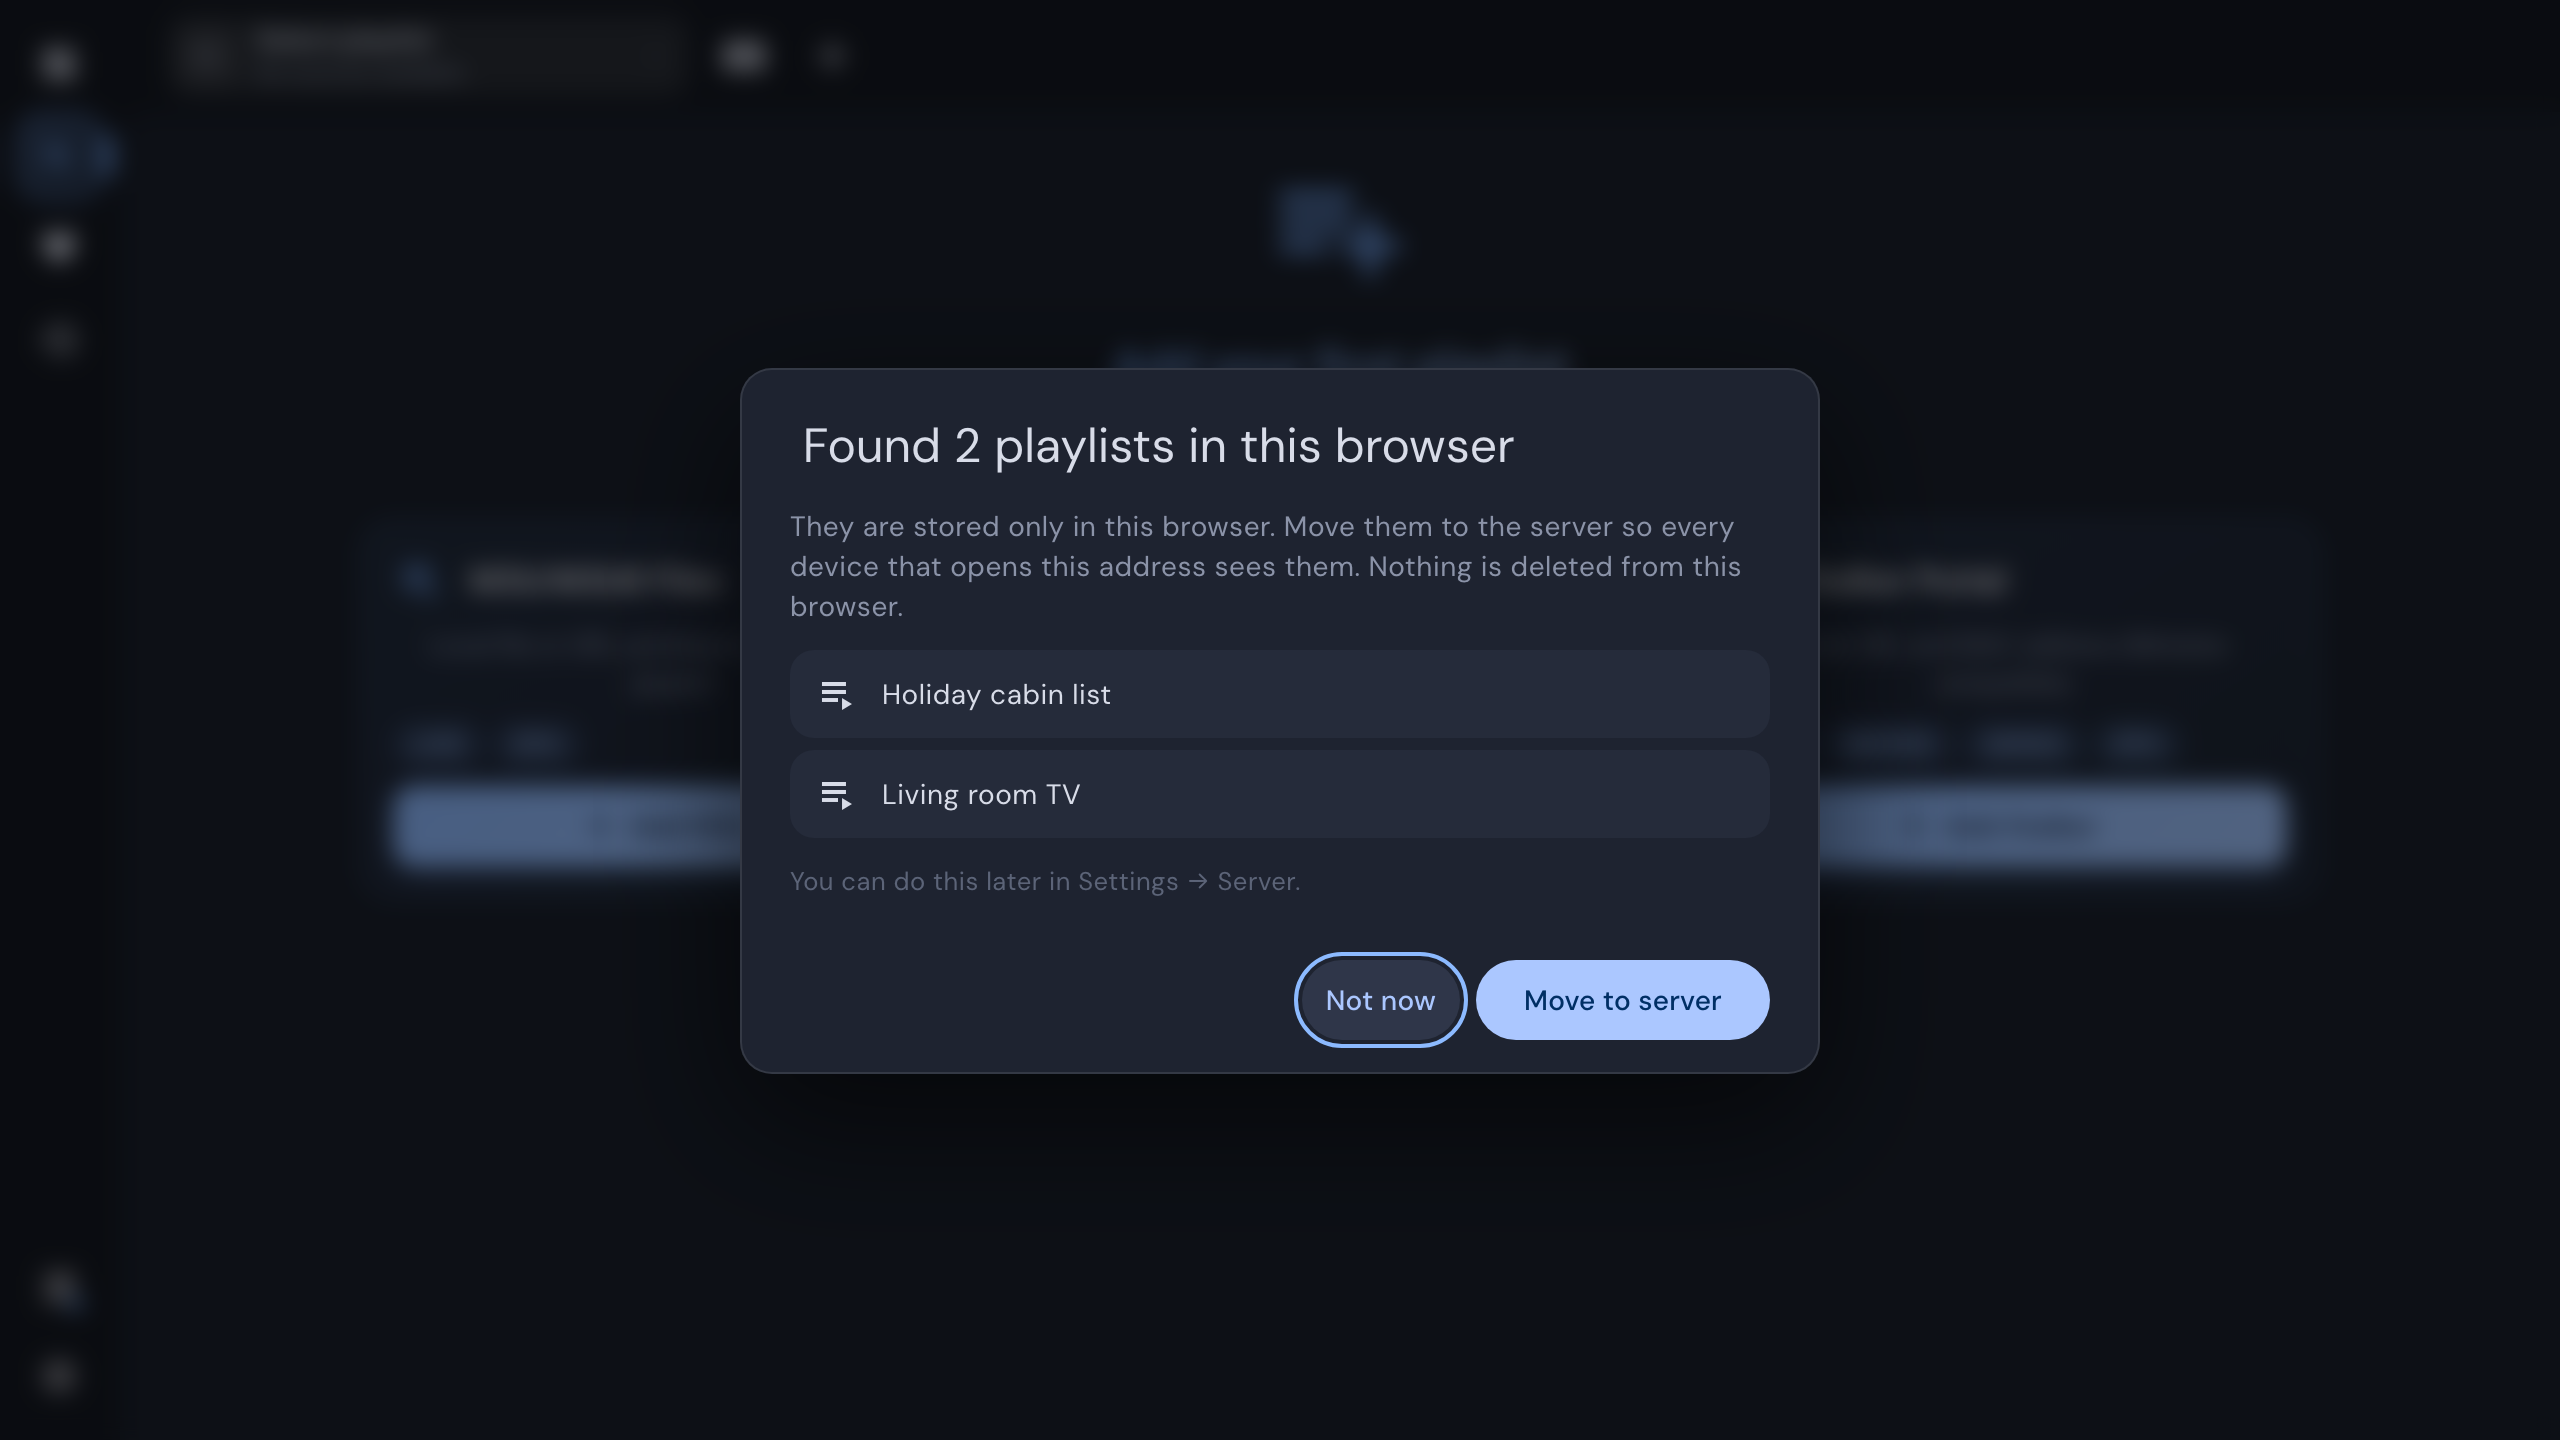
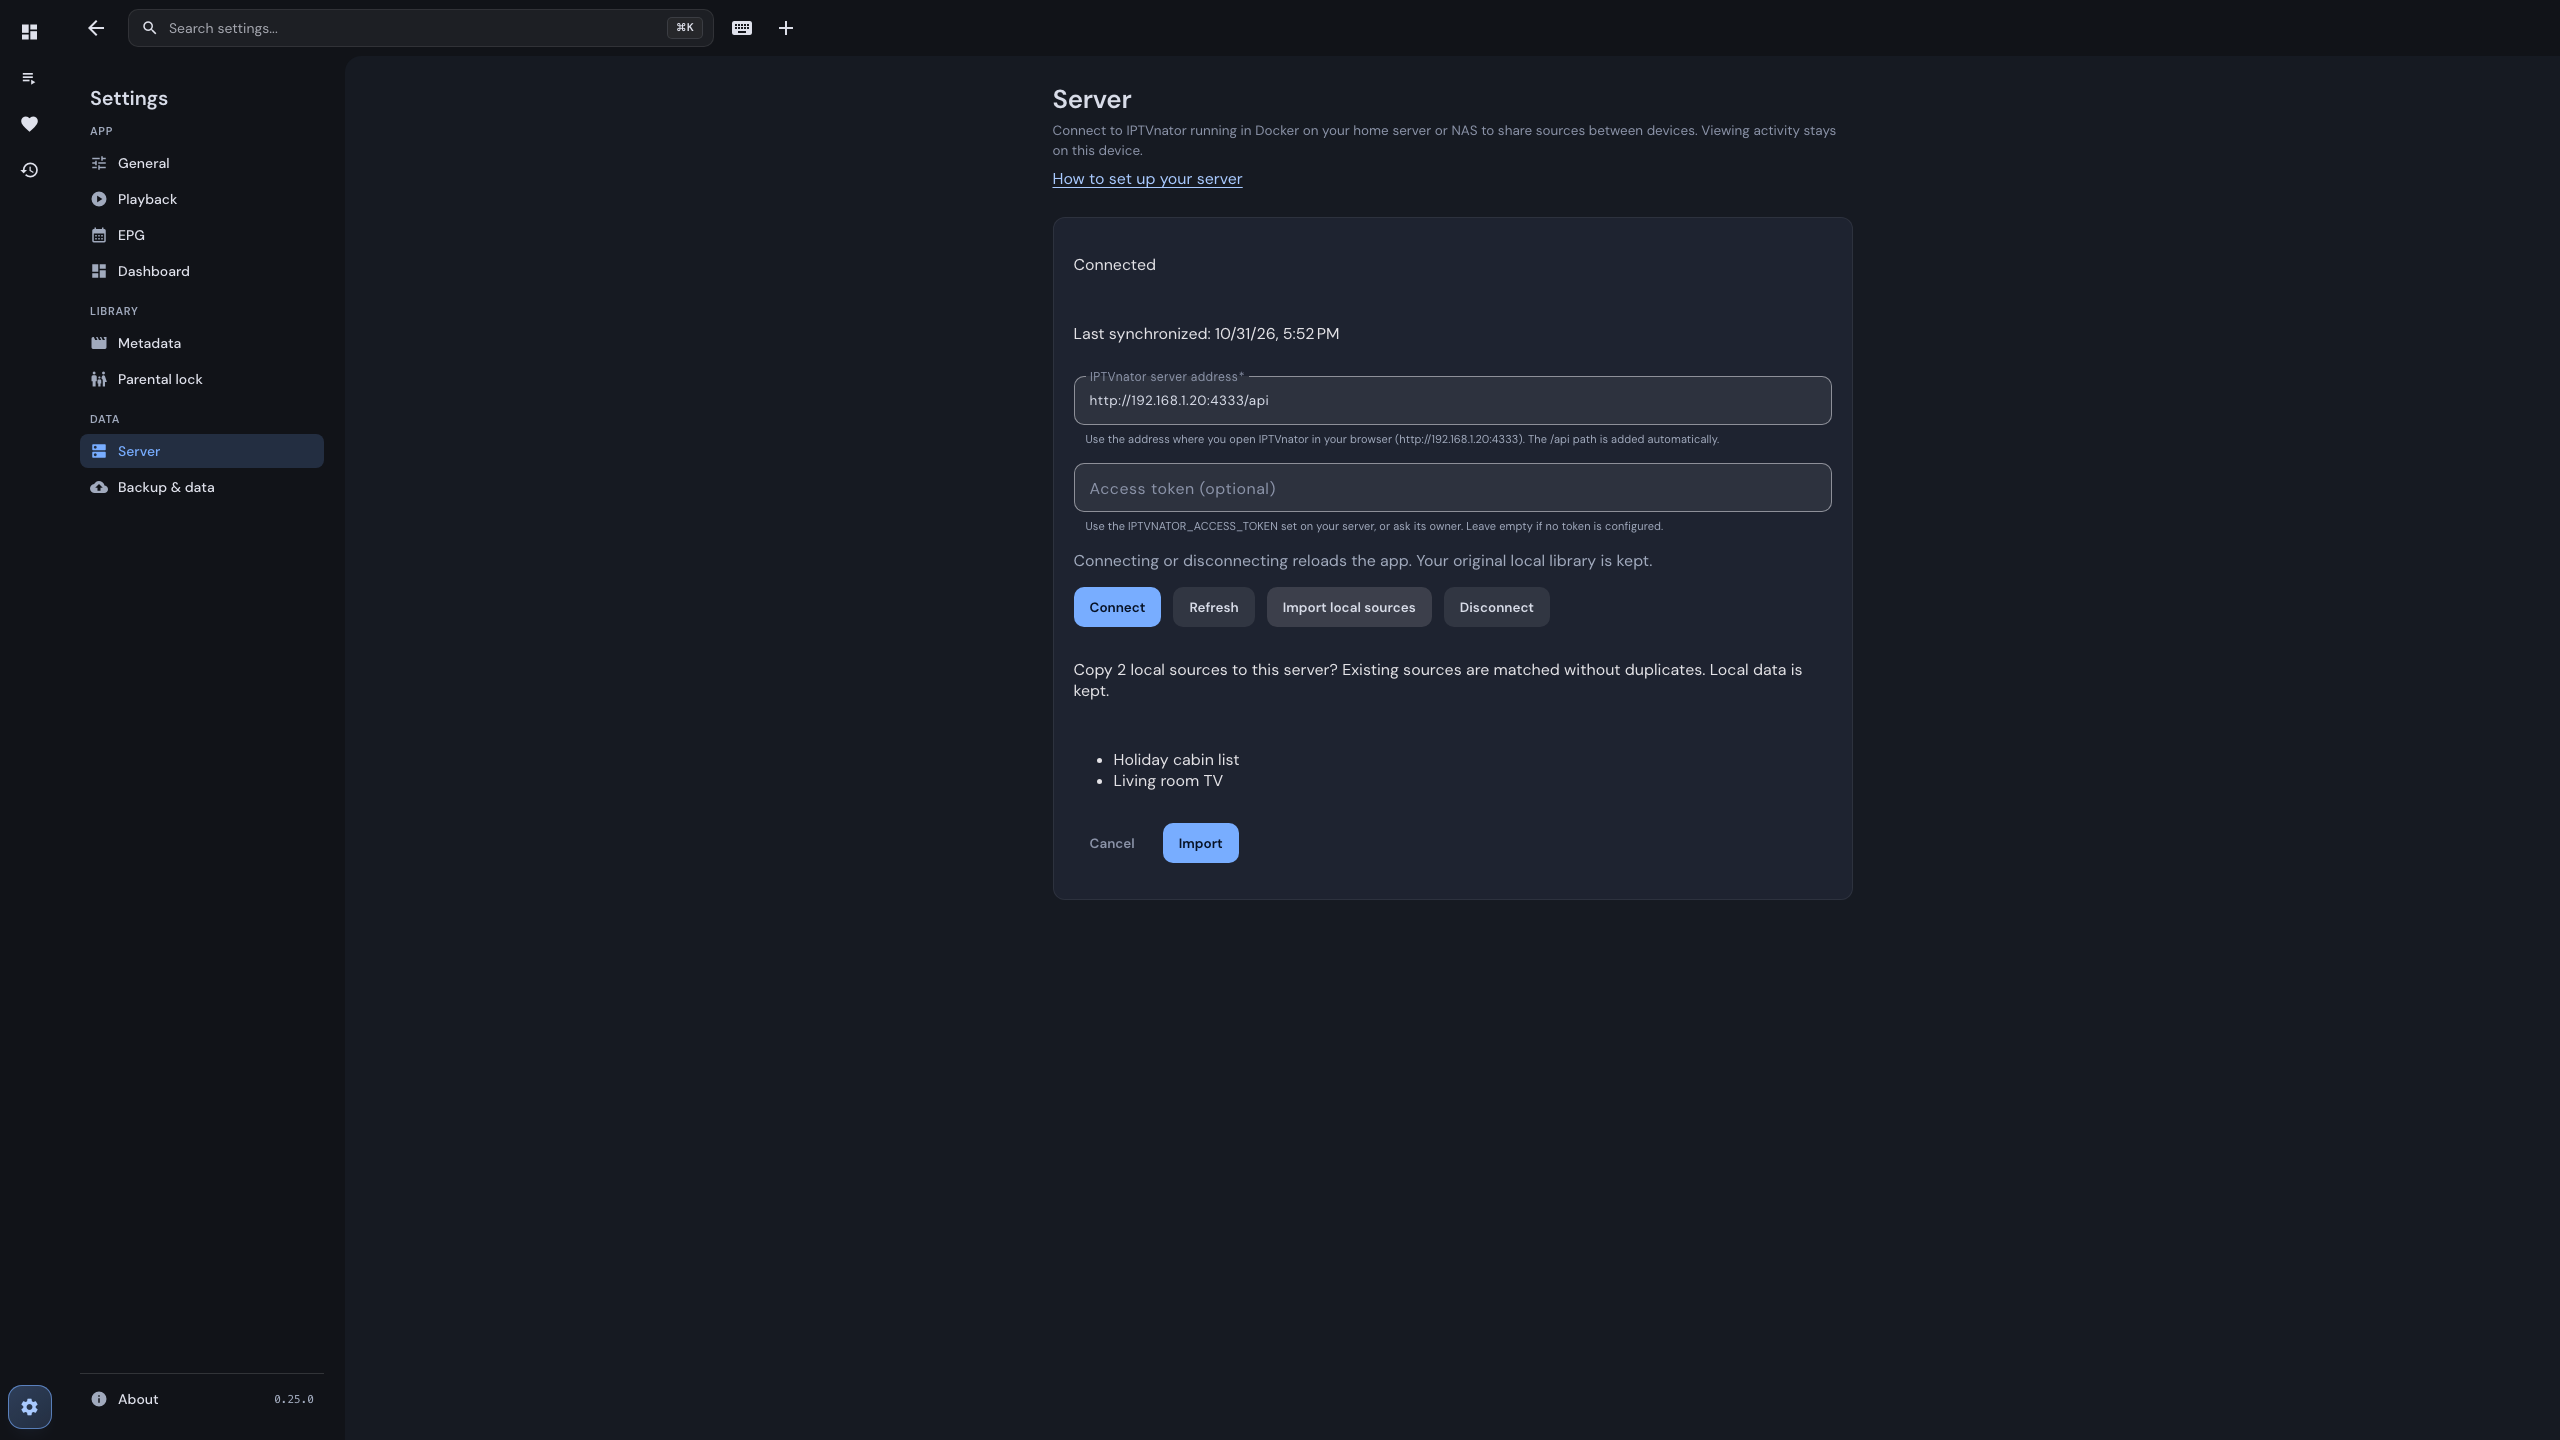
docs(server): preserve draft guide preview coverage

diff --git a/apps/website/README.md b/apps/website/README.md
@@ -171,6 +171,12 @@ Evergreen how-to posts live in the blog collection next to release notes
   attached to the v0.24.0 GitHub release, explicitly selected by the maintainer;
   its provenance is recorded alongside the assets. It is not a mock capture.
 
+The server guide's two dark screenshots were refreshed from the running web
+app on 2026-10-31: Server setup and the local-source import preview. The capture
+used an isolated Chromium profile, intercepted server discovery/source responses
+and two synthetic local sources (Holiday cabin list and Living room TV); no
+provider credentials or user data were used.
+
 `tools/testing/website-guides.test.mjs` (part of `pnpm nx test website`) checks
 each guide for the FAQPage schema, a link to the download hub and the presence
 of every referenced screenshot in the build output. It also checks the task hub's
